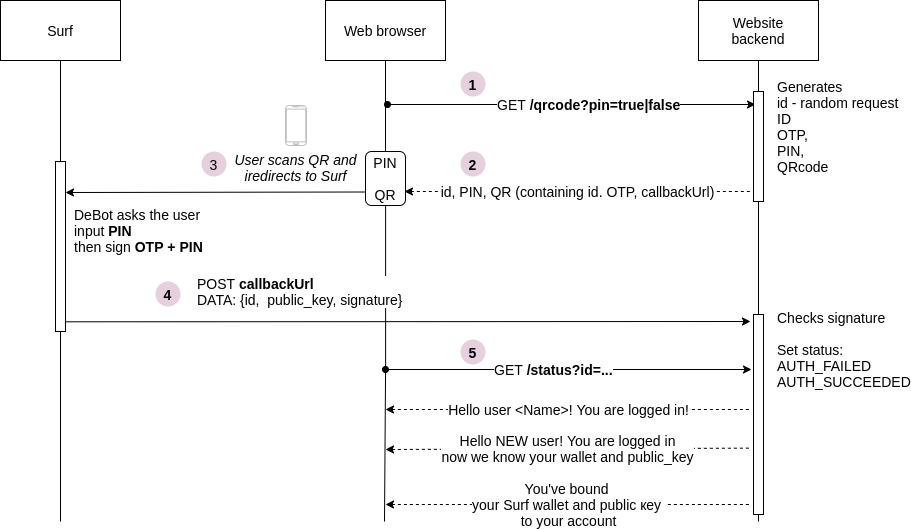
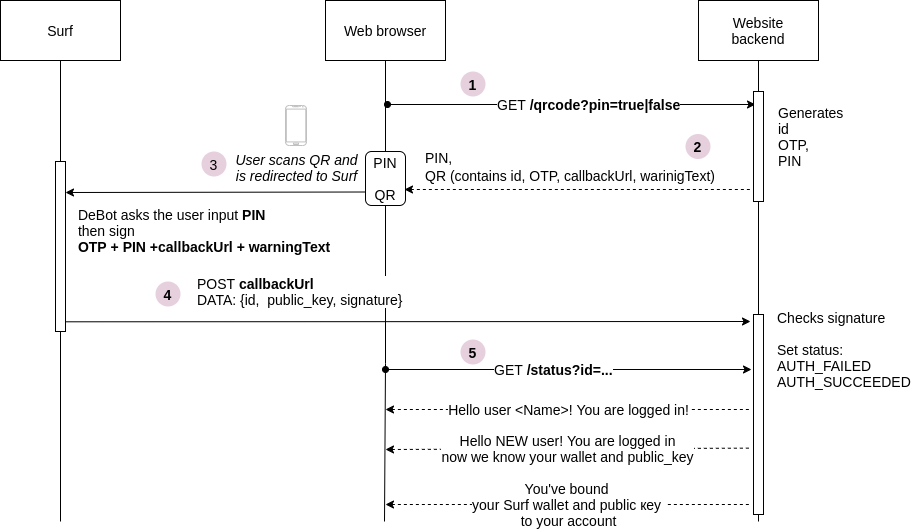
Add to sign callbackUrl and warningText

diff --git a/auth/AuthDebotContract.js b/auth/AuthDebotContract.js
@@ -87,6 +87,20 @@ const AuthDebotContract = {
                     {
                         "name": "callbackUrl",
                         "type": "bytes"
+                    },
+                    {
+                        "name": "warningText",
+                        "type": "bytes"
+                    }
+                ],
+                "outputs": []
+            },
+            {
+                "name": "setConfirm",
+                "inputs": [
+                    {
+                        "name": "value",
+                        "type": "bool"
                     }
                 ],
                 "outputs": []
@@ -177,6 +191,10 @@ const AuthDebotContract = {
                     {
                         "name": "callbackUrl",
                         "type": "bytes"
+                    },
+                    {
+                        "name": "warningText",
+                        "type": "bytes"
                     }
                 ],
                 "outputs": [
@@ -247,8 +265,8 @@ const AuthDebotContract = {
         "data": [],
         "events": []
     },
[6 lines of base64/hex data omitted]
 };
 module.exports = { AuthDebotContract };

diff --git a/auth/example-webserver-nodejs/src/routes/index.js b/auth/example-webserver-nodejs/src/routes/index.js
@@ -12,6 +12,7 @@ const { expressTryCatch, utf8ToHex } = require('../utils')
 const {
     attemptsLimit,
     callbackUrl,
+    warningText,
     clientParams,
     contracts,
     debotAddress,
@@ -62,6 +63,7 @@ async function getQrCode(req, res) {
             otp: utf8ToHex(otp),
             pinRequired,
             callbackUrl: utf8ToHex(callbackUrl),
+            warningText: utf8ToHex(warningText),
         })
         .then((result) =>
             // convert from base64 to base64url
@@ -104,7 +106,7 @@ async function postSignature(req, res) {
         if (that.attempts > attemptsLimit) throw Error('Too many attempts')
 
         const { hash } = await client.crypto.sha256({
-            data: Buffer.from(`${that.otp}${that.pin}`, 'utf-8').toString('base64'),
+            data: Buffer.from(`${that.otp}${that.pin}${callbackUrl}${warningText}`, 'utf-8').toString('base64'),
         })
 
         const { succeeded } = await client.crypto.nacl_sign_detached_verify({

diff --git a/auth/example-webserver-nodejs/src/config.js b/auth/example-webserver-nodejs/src/config.js
@@ -1,6 +1,7 @@
 const TON_SERVER = 'https://net.ton.dev'
 const DEBOT_ADDRESS = process.argv[2]
 const EXPRESS_PORT = process.argv[3] || 8080
+const HOST = 'localhost'
 
 if (!DEBOT_ADDRESS) throw Error('DeBot Address required')
 
@@ -9,7 +10,8 @@ const config = {
     attemptsLimit: 1,
     debotAddress: DEBOT_ADDRESS,
     express: { port: EXPRESS_PORT },
-    callbackUrl: `http://localhost:${EXPRESS_PORT}/signature`,
+    callbackUrl: `http://${HOST}:${EXPRESS_PORT}/signature`,
+    warningText: `Attention! You authorize access to ${HOST} site`,
     deeplinkBuilder: (adr, msg) =>
         `https://uri.ton.surf/debot/${adr}?net=devnet&message=${msg}`,
     clientParams: {

diff --git a/auth/README.md b/auth/README.md
@@ -4,9 +4,21 @@ This DeBot can be used in "Sign Up" / "Sign In" flows as well as in the case whe
 
 ## Workflow
 
- - Web server generates one time password (OTP) and some PIN (optionally), which user should sign in Surf
+ - Web server generates:
+   - one time password (OTP)
+   - PIN (optionally)
+   - callback_url
+   - warning_text
+   
+ - Web server:
+   - generates QR-code with a deeplink to the Surf containing all this data **except for the PIN**.
+   - shows PIN and QR-code to the user
 
- - User signs this OTP + PIN, and returns his signature and public key to the server
+ - The user 
+    - scans a QR code or click deeplink, and is redirected to the Surf
+    - Sees warning text, e.g. "Attention! You authorize access to ABC site"
+    - Enters OTP
+    - Signs OTP + PIN + callback_url + warning_text, and returns his signature and **his public key** to the server
 
  -  If the signature is correct, the server knows that this user is the real owner of this public key.
 
